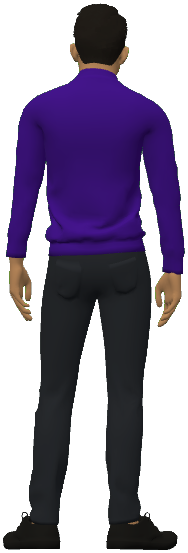
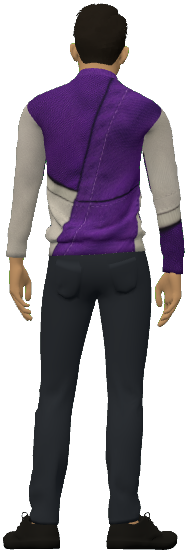
店員換上真的制服材質，對話頭像改用 GPT 生的特寫照
三件事：

1. 對話框大頭貼原本裁 clerkFrontImg（店員站櫃檯那張遠景 3D 渲染），放大到
   100×100 才發現 3D 模型近距離撐不住——沒有虹膜/高光對比，看起來無神
   （kc 抓到「奇怪的黑點」其實是我手動補的瞳孔，先移除retouch，最後決定
   直接換來源）。改成另外用 GPT 生一張特寫照（clerk-portrait.png，同一套
   膚色/髮色/紫色制服），近看有真的眼神。

2. 店員身上原本是純色紫（#4a09b6，from sign-store.png 取樣），kc 要求
   「7-11 制服感覺但不要 logo」——生了一張近拍布料材質照
   （assets/tex/clerk-uniform.png，紫色+白色滾邊拼接，無文字無商標），
   套進 buildNPC 的 tex.hood（跟阿源那件花襯衫 char-yuan-shirt.png 同一套
   UV 鏡射貼法）。Python 先模擬鏡射結果確認不會破圖才套上 3D 模型。

3. 換裝後重新截了店員全身正/背面圖（clerk-front.png/clerk-back.png，
   店內站櫃檯那兩張），流程跟之前一樣：綠幕渲染→色度去背→裁到內容
   bbox。尺寸/比例跟舊版一致，STORE 相關座標、CLERK_CLIP_Y 都不用調。

瀏覽器截圖驗證過：3D 模型正反面材質效果、實際店內合成後的頭部淨空/裁切
都正常，對話框頭像換成新照片後正常顯示。

diff --git a/prototypes/game.html b/prototypes/game.html
@@ -296,21 +296,21 @@ const WHO = {
   pc:    { name:'你',   opt:{ face:'F', skin:P2.pcSkin, hair:P2.pcHair, top:P2.pcHood, topD:P2.pcHoodD, pants:P2.pcPants, shoe:P2.pcShoe, hood:true } },
   clerk: { name:'店員', opt:{ face:'F', skin:P2.clSkin, hair:P2.clHair, top:P2.clVest, topD:P2.clShirt, pants:'#2c3340' } }
 };
-/* 店員大頭貼直接裁 clerkFrontImg 的臉部(跟他站在櫃台裡是同一張圖,
-   2026-08-14 起有這張真人截圖之後就不用再靠 SF.person() 那套像素小人放大
-   湊——DESIGN_NOTES「UI:對話框」那節原本設想的「人物換成正式素材頭像
-   會自動變好」在這裡才真的兌現。裁切框 (34,0,164,130) 是在 clerk-front.png
-   上肉眼量的,含頭髮頂到一點毛衣領口,方形好縮進 100×100 的大頭貼畫布。
-   其他角色(玩家 pc、之後可能的 NPC)還沒有這種真人截圖,維持原本
+/* 店員大頭貼:2026-08-14 第一版是直接裁 clerkFrontImg(店員站櫃台那張
+   遠景)的臉部,結果放大到 100×100 才發現 3D 模型近距離撐不住——沒有
+   虹膜/高光對比,看起來無神。kc 覺得這個問題該換掉來源,不是硬摳 3D
+   渲染:改成另外生一張 GPT 頭像特寫(`clerk-portrait.png`,同一套膚色/
+   髮色/紫色制服,但是真的照片級人臉,近看有真的眼神)專門給對話框用,
+   跟站在櫃台裡那張(遠景、3D 渲染)是兩張不同用途的圖,不用互相遷就。
+   其他角色(玩家 pc、之後可能的 NPC)還沒有這種真人頭像,維持原本
    SF.person() 那套像素小人放大畫法,不要因為店員換了就跟著硬套。 */
-const CLERK_PORTRAIT_CUT = [34,0,164,130];
+const clerkPortraitImg = new Image(); clerkPortraitImg.src = '../assets/bg/clerk-portrait.png';
 function drawPortrait(who){
   const w = WHO[who] || WHO.pc, S = portC.canvas.width;
   portC.clearRect(0,0,S,S); portC.fillStyle = '#1b202b'; portC.fillRect(0,0,S,S);
-  if(who === 'clerk' && clerkFrontImg.complete){
-    const [sx,sy,sx1,sy1] = CLERK_PORTRAIT_CUT;
+  if(who === 'clerk' && clerkPortraitImg.complete){
     portC.imageSmoothingEnabled = true;
-    portC.drawImage(clerkFrontImg, sx,sy,sx1-sx,sy1-sy, 0,0,S,S);
+    portC.drawImage(clerkPortraitImg, 0,0,clerkPortraitImg.width,clerkPortraitImg.height, 0,0,S,S);
   } else {
     portC.save(); portC.imageSmoothingEnabled = false;
     const k = S/33; portC.scale(k,k);
@@ -567,9 +567,9 @@ hotImg.src = '../assets/bg/store-hot-cabinet.png';
    看不到修好的版本(這個 session 已經在鮮食櫃圖上踩過同一個坑)——之後這兩張
    圖只要換內容,記得把 N 往上加一,不要以為存檔就會自動生效。 */
 const clerkFrontImg = new Image(); clerkFrontImg.onload = paintStoreBackdrop;
-clerkFrontImg.src = '../assets/bg/clerk-front.png?v=6';
+clerkFrontImg.src = '../assets/bg/clerk-front.png?v=7';
 const clerkBackImg = new Image(); clerkBackImg.onload = paintStoreBackdrop;
-clerkBackImg.src = '../assets/bg/clerk-back.png?v=3';
+clerkBackImg.src = '../assets/bg/clerk-back.png?v=4';
 
 /* 牆面家具(飲料櫃/貨架/櫃台)都已經畫進 `store-front.png` 這張整合背景圖
    裡,不再是 3D 物件、不需要幾何/材質。碰撞邊界直接用既有的 px 座標算,
@@ -1119,7 +1119,8 @@ window.__dbg = {
     if(this._clerk) indoorScene.remove(this._clerk.group);
     this._clerk = buildNPC(THREE, indoorScene, {
       rig: rig||'m2', rotationY: rotY||0,
-      skin:'#cfa279', hair:'#201b17', hood:'#4a09b6', pants:'#2c3340', shoe:'#1a1a1a'
+      skin:'#cfa279', hair:'#201b17', hood:'#4a09b6', pants:'#2c3340', shoe:'#1a1a1a',
+      tex:{ hood:'clerk-uniform.png' }   // 2026-08-14 kc 生的制服布料,跟 char-yuan-shirt.png 同一套 UV 鏡射貼法
     });
     this._clerk.group.position.set(640, 200, 0);
     this._clerk.group.scale.setScalar(INDOOR_HERO_SCALE);   // 跟 heroIndoor 同一招,見上面「畫面固定身高」
